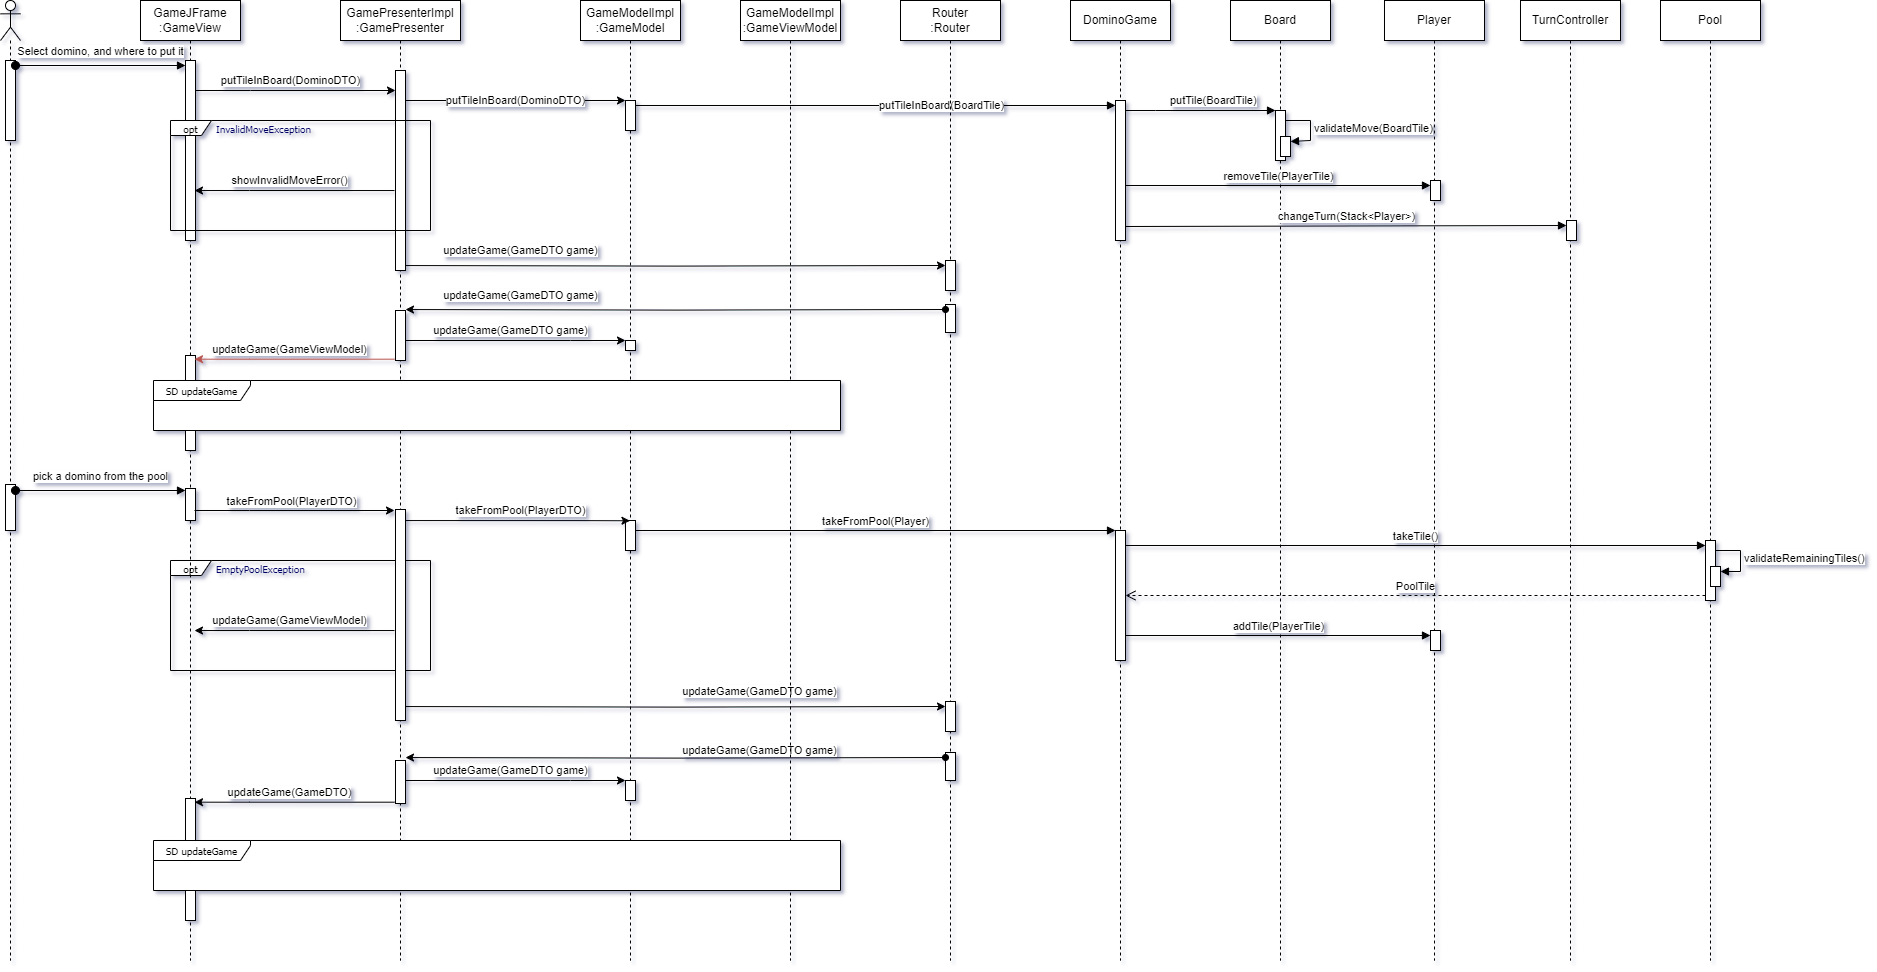
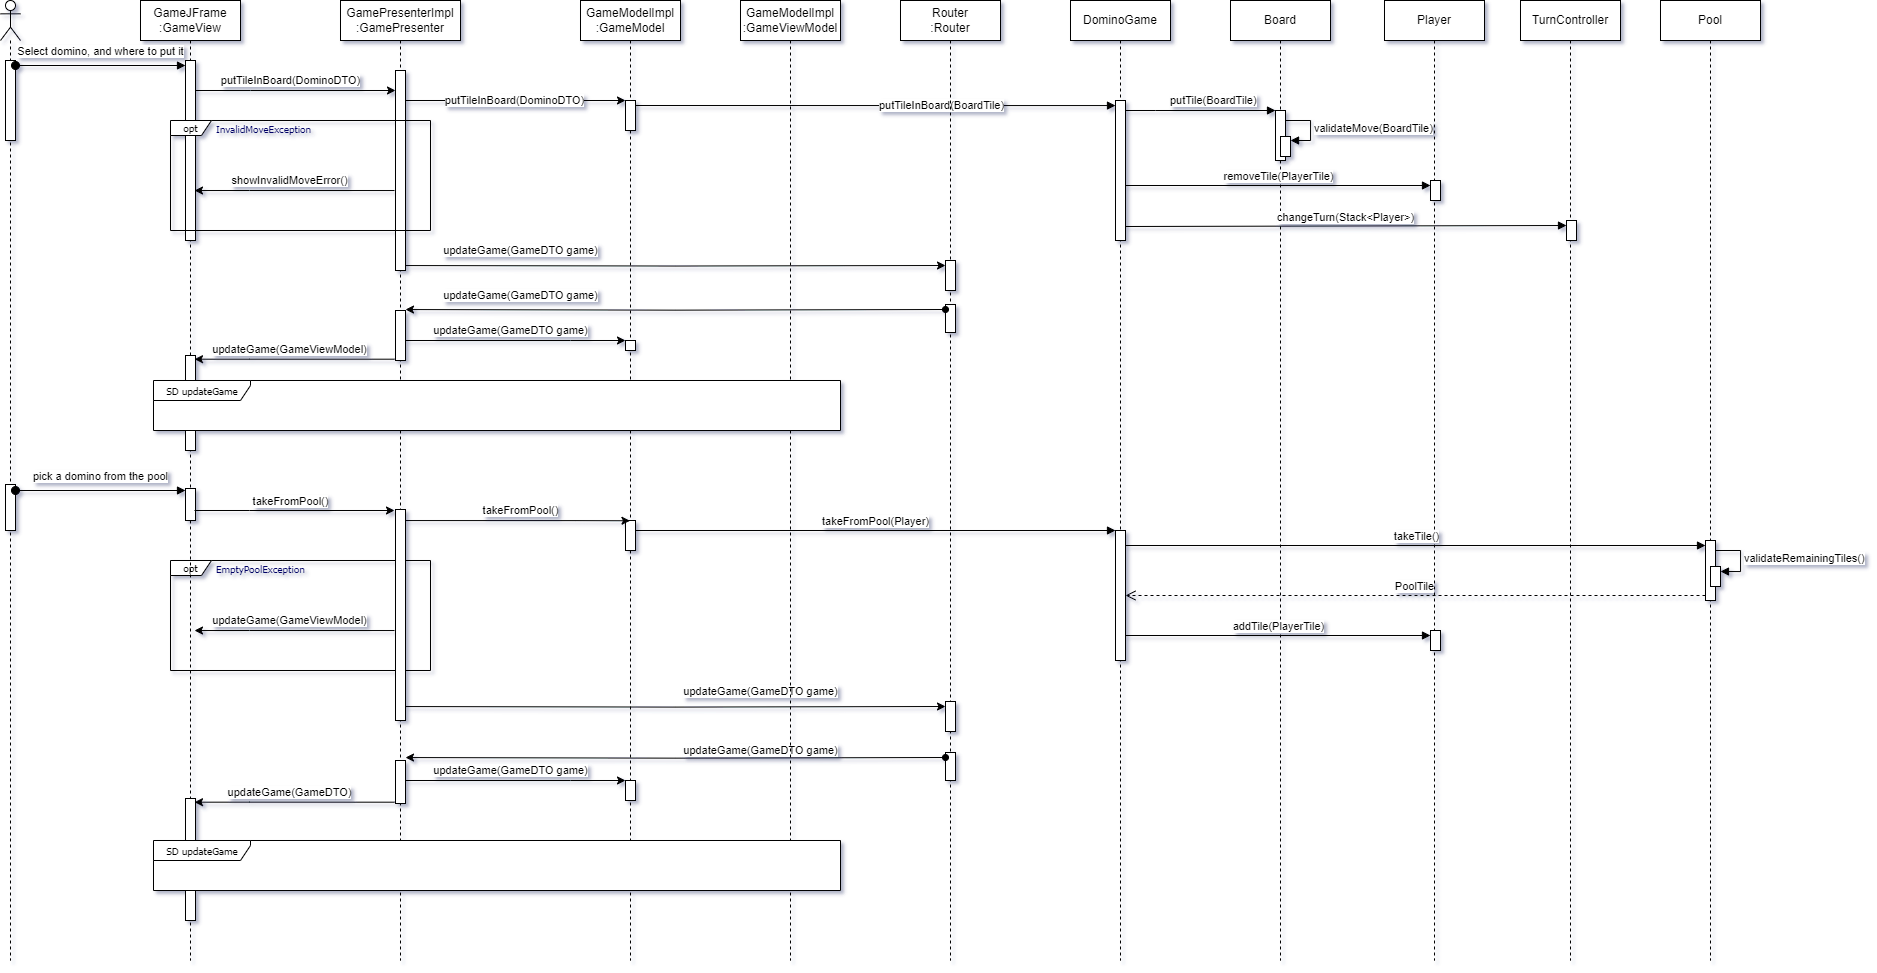
docs: update ejercer turno

diff --git a/docs/diagrams/Ejercer_Turno.md b/docs/diagrams/Ejercer_Turno.md
@@ -4,22 +4,21 @@
 
 ![Figure1](/docs/imgs/CD_ejercer_turno.png)
 
-_Figure 1. Diagrama de Clase Ejercer Turno_
+_Figure 1. Diagrama de Clase Ejercer Turno_ [^1]
 
-El diagrama editable se encuentra en [este link](https://drive.google.com/file/d/1RLThj4k63heokaFVFKIsCeU1Zq4e663_/view?usp=drive_link).
+El diagrama editable se encuentra en .
 
-| Componente        | Definicion                                                                                                                                                                                                                                                                                                                                                                                                                                                                                                                                                                                                                                                         |
-| ----------------- | ------------------------------------------------------------------------------------------------------------------------------------------------------------------------------------------------------------------------------------------------------------------------------------------------------------------------------------------------------------------------------------------------------------------------------------------------------------------------------------------------------------------------------------------------------------------------------------------------------------------------------------------------------------------ |
-| DominoDTO         | <p>Data Transfer Object con la información que la vista necesita enviar al Presentador para poder referenciar las interacciones de fichas.</p><ul><li>`leftValue` _int_: Valor izquierdo de la ficha<li>`rightValue` _int_: Valor derecho de la ficha.</ul>                                                                                                                                                                                                                                                                                                                                                                                                        |
-| GameView          | <p>Es la interfaz de la Vista, del patrón MVP. <br> Su función es repsentar todos los cambios solicitados por el Presentador, de forma gráfica.</p><ul><li>`showInvalidError():void`: Despliega un mensaje de error.</li><li>`updateGame(GameViewModel model):void`: Actualiza todo el juego, obteniendo la información del Modelo el cual es proporcionado por el Presentador.</li></ul>                                                                                                                                                                                                                                                                          |
-| GameJFrame        | <p>Implementación de la interfaz `GameView`, la cual lo hace mediante los JFrame de Java.</p>                                                                                                                                                                                                                                                                                                                                                                                                                                                                                                                                                                      |
-| GamePresenter     | <p>Es la interfaz del Presentador, del patrón MVP. <br> Refleja los cambios de información en el Modelo y le dice a la Vista cómo comportarse.</p><ul><li>`putTileInBoard(): void`: Sirve para recibir el cambio de la vista. Aquí el Presentador actualiza al Modelo con la ficha regresada y vuelve a cargar la vista con los datos actualizados.</li></ul>                                                                                                                                                                                                                                                                                                      |
-| GamePresenterImpl | Implementación de la interfaz `GamePresenter`.                                                                                                                                                                                                                                                                                                                                                                                                                                                                                                                                                                                                                     |
-| Router            | Es la interfaz intermediaria entre la conexión con el servidor. Esta va a estar observando los cambios más recientes y se lo hará saber al `GamePresenter`.                                                                                                                                                                                                                                                                                                                                                                                                                                                                                                        |
-| RouterImpl        | Implementación de la interfaz `Router`.                                                                                                                                                                                                                                                                                                                                                                                                                                                                                                                                                                                                                            |
-| GameModel         | Interfaz que contiene métodos para actualizar el Modelo, del patrón MVP.<br>El cómo se actuliza es  interactuando con las clases de Dominio, que se ve reflejado en el [Diagrama de Secuencia](#ds-ejercer-turno).<ul><li>`getTileFromPool():DominoDTO`: Obtiene una ficha del pozo, si es que existe. </li><li>`putTileInBoard(DominoDTO):void`: Intenta poner una ficha en el tablero.</li><li>`takeFromPool(PlayerDTO):void`: Intenta agregar una ficha del pozo al jugador, si es que hay restantes.</li><li>`updateGame(GameDTO):void`: Actualiza todo el modelo, este método se suele llamar cuando hay cambios nuevos de fuera i.e. del Servidor.</li></ul> |
-| GameViewModel     | Es la versión segregada del Modelo, la cual se va a estar mandando a la Vista.<br>Contiene únicamente métodos para acceder a la información que la vista necesita para ser cargada o actualizada.<ul><li>`getBoard():BoardDTO`: Regresa el tablero del juego.</li><li>`getMyPlayer():PlayerDTO`: Regresa el jugador actual.</li><li>`getRemainingTilesInPool():int`: Regresa las fichas faltantes del pozo.</li><li>`getRoom()`: Regresa los demás jugadores de la sala. </li></ul>                                                                                                                                                                                |
-| GameModelImpl     | Esta clase implementa de `GameModel` y de `GameViewModel`. <br>Tiene una referencia de la clases de Dominio `DominoGame` con la información del juego actual y `Player`, que representa al jugador actual (Ver [Clases de Domino](/docs/diagrams/DD_client.md)).                                                                                                                                                                                                                                                                                                                                                                                                   |
+| Componente        | Definicion                                                                                                                                                                                                                                                                                                                                                                                                                                                                                                                                                                                                                                              |
+| ----------------- | ------------------------------------------------------------------------------------------------------------------------------------------------------------------------------------------------------------------------------------------------------------------------------------------------------------------------------------------------------------------------------------------------------------------------------------------------------------------------------------------------------------------------------------------------------------------------------------------------------------------------------------------------------- |
+| GameView          | <p>Es la interfaz de la Vista, del patrón MVP. <br> Su función es repsentar todos los cambios solicitados por el Presentador, de forma gráfica.</p><ul><li>`showInvalidError():void`: Despliega un mensaje de error.</li><li>`updateGame(GameViewModel model):void`: Actualiza todo el juego, obteniendo la información del Modelo el cual es proporcionado por el Presentador.</li></ul>                                                                                                                                                                                                                                                               |
+| GameJFrame        | Implementación de la interfaz `GameView`, la cual lo hace mediante los JFrame de Java.                                                                                                                                                                                                                                                                                                                                                                                                                                                                                                                                                                  |
+| GamePresenter     | Es la interfaz del Presentador, del patrón MVP. <br> Refleja los cambios de información en el Modelo y le dice a la Vista cómo comportarse.<ul><li>`putTileInBoard(DominoDTO domino): void`: Sirve para recibir el cambio de la vista. Aquí el Presentador actualiza al Modelo con la ficha regresada y vuelve a cargar la vista con los datos actualizados.<li>`updateGame(GameDTO game): void`: Sirve para recibir actualizaciones del juego, para así reflejarlas en el Modelo como en la Vista. <li>`takeFromPool(): void`: Es el método que la vista va a usar para avisar que el jugador está intentando agarrar del pool (pozo) de fichas. </ul> |
+| GamePresenterImpl | Implementación de la interfaz `GamePresenter`.                                                                                                                                                                                                                                                                                                                                                                                                                                                                                                                                                                                                          |
+| BasePresenter     | Consultar Event Processor [^2]                                                                                                                                                                                                                                                                                                                                                                                                                                                                                                                                                                                                                          |
+| EventProducer     | Consultar Event Processor[^2]                                                                                                                                                                                                                                                                                                                                                                                                                                                                                                                                                                                                                           |
+| GameModel         | Interfaz que contiene métodos para actualizar el Modelo, del patrón MVP.<br>El cómo se actuliza es  interactuando con las clases de Dominio, que se ve reflejado en el [Diagrama de Secuencia](#ds-ejercer-turno).<ul><li>`putTileInBoard(DominoDTO tile):void`: Intenta poner una ficha en el tablero.<li>`takeFromPool(PlayerDTO player):void`: Intenta agregar una ficha del pozo al jugador, si es que hay restantes.</li><li>`updateGame(GameDTO game):void`: Actualiza todo el modelo, este método se suele llamar cuando hay cambios nuevos de fuera i.e. del Servidor.</li></ul>                                                                |
+| GameViewModel     | Es la versión segregada del Modelo, la cual se va a estar mandando a la Vista.<br>Contiene únicamente métodos para acceder a la información que la vista necesita para ser cargada o actualizada.<ul><li>`getBoard(): List<DominoDTO>`: Regresa el tren de fichas.<li>`getMyPlayer(): PlayerDTO`: Regresa el jugador actual.</li><li>`getRemainingTilesInPool(): int`: Regresa las fichas faltantes del pozo.</li><li>`getRoom(): List<OpponentDTO>`: Regresa los demás jugadores de la sala. </li></ul>                                                                                                                                                |
+| GameModelImpl     | Esta clase implementa de `GameModel` y de `GameViewModel`. <br>Tiene una referencia de la clases de Dominio `DominoGame` con la información del juego actual y `Player`, que representa al jugador actual (Ver Clases de Domino[^3]).                                                                                                                                                                                                                                                                                                                                                                                                                   |
 
 
 ## Secuencia
@@ -39,3 +38,8 @@ Representa el flujo de información entre las clases de Dominio y las clases rel
 _Figure 3. Diagrama de Secuencia: Actualizar Juego_
 
 Representa el flujo de actualizar la vista con la información del Modelo, del patrón MVP.
+
+
+[^1]: https://drive.google.com/file/d/1RLThj4k63heokaFVFKIsCeU1Zq4e663_/view?usp=drive_link
+[^2]: /docs/diagrams/Event_Processor.md
+[^3]: /docs/diagrams/DD_client.md
